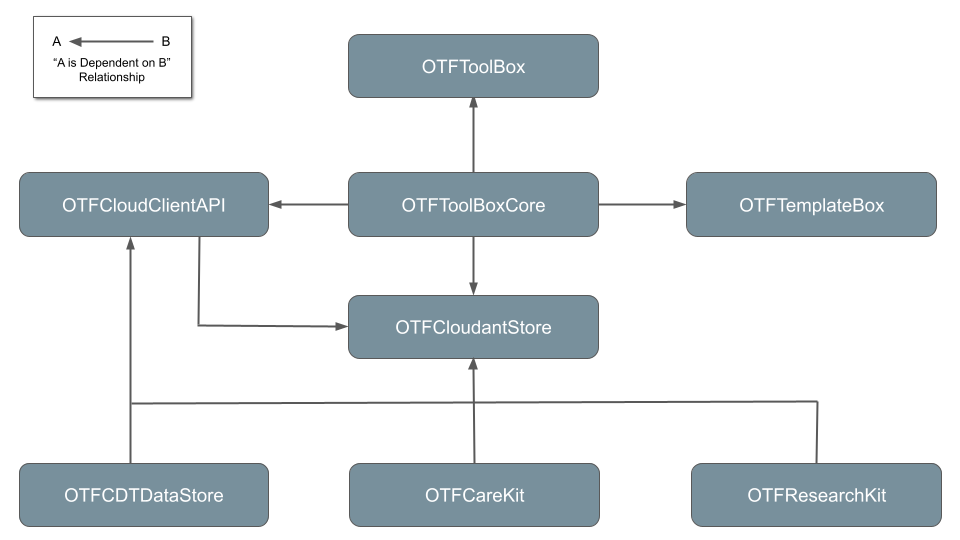
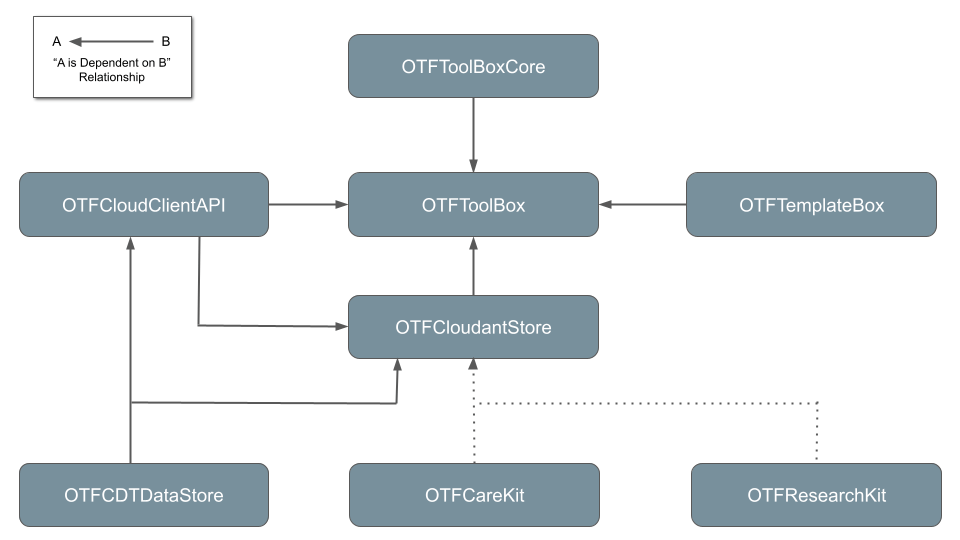
Committing version 1.0.1-beta

diff --git a/README.md b/README.md
@@ -1,10 +1,14 @@
-# OTFToolBox 1.0.0-beta for iOS
+# OTFToolBox 1.0.1-beta for iOS
 
 TheraForge ToolBox (*OTFToolBox*) is an open software development kit (SDK) for rapid application development (RAD) of digital health solutions running on Apple iOS.
 
 It comprises a set of iOS frameworks for students, researchers and professional developers, designed to accelerate rapid prototyping of digital health applications.
 
 OTFToolbox includes support for persistent secure local storage with cloud synchronization and *offline-first capabilities*, digital health UI/UX components synchronized with data changes, support for powerful app templating and styling, REST API support to connect to TheraForge's secure CloudBox service, AppleWatch support, wearable device support as health data sources, and much more.
+
+## Change Log
+* Release 1.0.0-beta: First beta release of the framework
+* Release 1.0.1-beta: Removed warnings and made various other improvements in the sub-frameworks. Verified support for Xcode 13.3. Improved dependency diagram and formatting in the Readme
 
 # Table of Contents
 * [Overview](#Overview)
@@ -213,7 +217,7 @@ Once your project podfile is created, you can start adding required modules unde
 
 Open the Podfile in your favourite text editor (for example, using Xcode or TextEdit). The content of that file should look like the following text:
 
-```swift
+```ruby
 # Uncomment the next line to define a global platform for your project
 # platform :ios, '9.0'
 
@@ -229,12 +233,12 @@ end
 In the file, you need to add two things:
 
 1. You need to add two sources at the top to tell Cocoapods where to search for the modules to install:
-   ```swift
+   ```ruby
    source 'https://cdn.cocoapods.org'
    source 'https://github.com/Theraforge/OTFCocoapodSpecs’
    ```
 2. You also need to specify that you want to install the OTFToolBox parent framework/module like so:
-   ```swift
+   ```ruby
    pod 'OTFToolBox'
    ```
 
@@ -244,7 +248,7 @@ The latter installs all the TheraForge frameworks through a common parent framew
 
 Then, your file should look like this:
 
-```swift
+```ruby
 # Uncomment the next line to define a global platform for your project
 # platform :ios, '9.0'
 source 'https://cdn.cocoapods.org'
@@ -261,7 +265,7 @@ end
 
 Head back to the `Terminal` window after saving the file and run:
 
-```
+```ruby
 pod install
 ```
 
@@ -340,7 +344,7 @@ Once an API key is received, the next step is to add it to the appropriate confi
 
 In the app code, before creating an instance of the ``TheraForgeNetwork object, you need to create a `configurations` object with the API Key assigned to you and with the TheraForge cloud server URL like so:
 
-```
+```swift
 let configurations = NetworkingLayer.Configurations(APIBaseURL: URL(string:"Cloud Server URL"), apiKey: "Your API_KEY")
 TheraForgeNetwork.configureNetwork(configurations)
 let otfNetworkService = TheraForgeNetwork.shared
@@ -457,7 +461,7 @@ To integrate [OTFToolBox/Core](#OTFToolBoxCore) with an existing workspace requi
 Add pod 'OTFToolBox/Core' under target in Podfile.
 
 
-```
+```ruby
 pod 'OTFToolBox/Core'
 ```
 
@@ -467,7 +471,7 @@ To integrate Theraforge [OTFCareKit](../../../OTFCareKit) requires the extra lin
 
 Add pod 'OTFToolBox/CareKit' under target in Podfile.
 
-```
+```ruby
 pod 'OTFToolBox/CareKit'
 ```
 
@@ -477,7 +481,7 @@ To integrate OTFCareKitUI specifically which provides the views used across the 
 
 Add pod 'OTFToolBox/CareKitUI' under target in Podfile.
 
-```
+```ruby
 pod 'OTFToolBox/CareKitUI'
 ```
 
@@ -487,7 +491,7 @@ To integrate OTFCareKitStore specifically which provides the solution for storin
 
 Add pod 'OTFToolBox/CareKitStore' under target in Podfile.
 
-```
+```ruby
 pod 'OTFToolBox/CareKitStore'
 ```
 
@@ -497,7 +501,7 @@ To integrate [OTFCloudantStore](../../../OTFCloudantStore) which is a Cloudant S
 
 Add pod 'OTFToolBox/CloudantStore' under target in Podfile.
 
-```
+```ruby
 pod 'OTFToolBox/CloudantStore'
 ```
 
@@ -507,7 +511,7 @@ To integrate [OTFCloudClientAPI](../../../OTFCloudClientAPI) which is a REST API
 
 Add pod 'OTFToolBox/API' under target in Podfile.
 
-```
+```ruby
 pod 'OTFToolBox/API'
 ```
 
@@ -552,7 +556,7 @@ A developer can use this mode when the app is guaranteed to complete a file acce
 To leverage the above protection levels (OTFProtectionLevel) in an application install [Theraforge OTFToolBox](#Installation) and then use the functions below with the OTFToolBox datastore object:
 
 
-```
+```objectivec
 /// Call encryption function with the help of datastore object in OBJECTIVE C
 # -(void)setProtectionLevel: (OTFProtectionLevel)level;'
 
@@ -561,7 +565,7 @@ To leverage the above protection levels (OTFProtectionLevel) in an application i
 ```
 
 
-```
+```swift
 /// Call encryption function with the help of datastore object in SWIFT -
 # dataStore.setProtectionLevel(.level)
 ```
